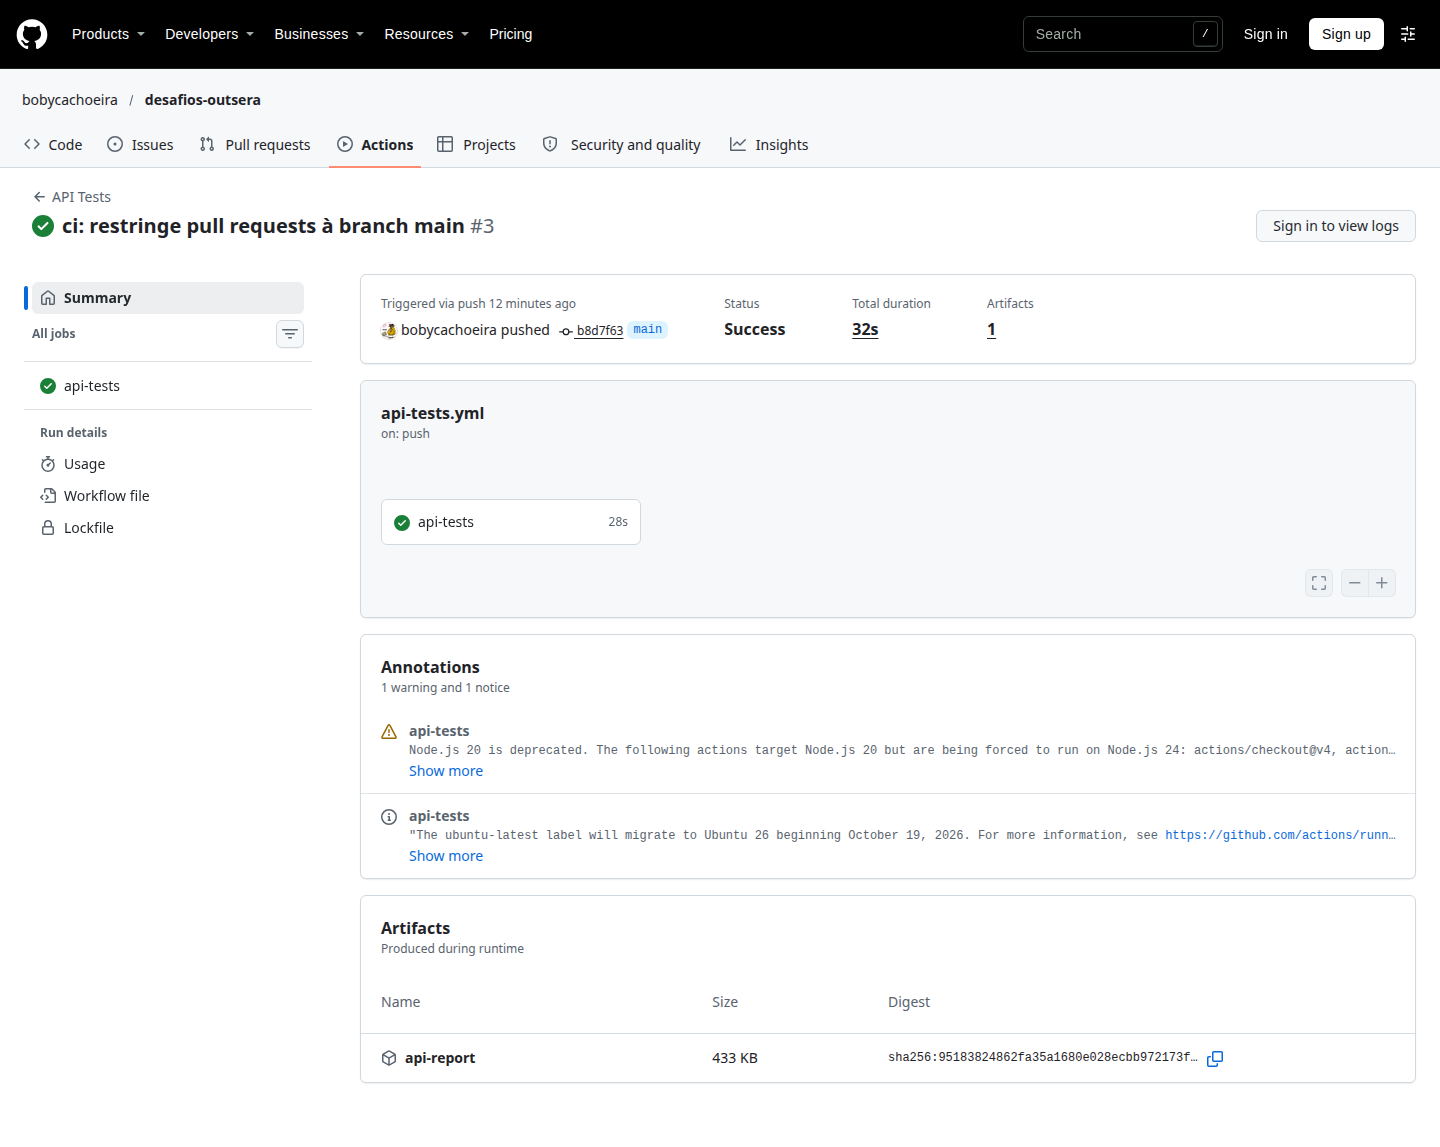
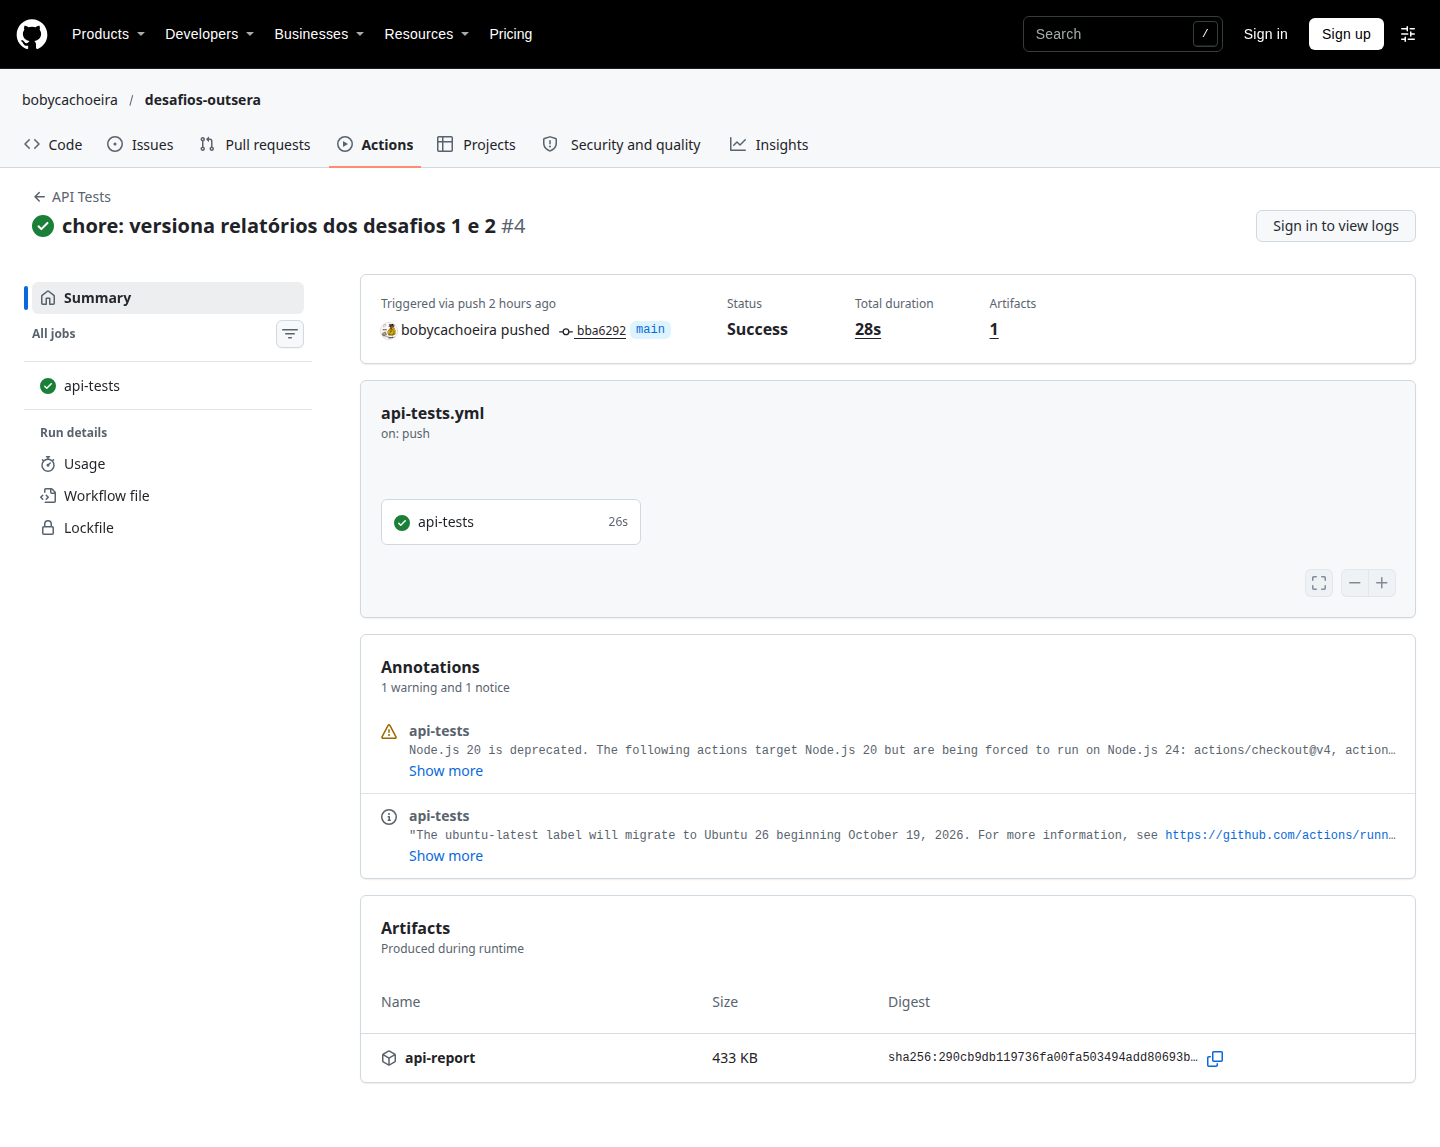
docs: atualiza READMEs e comandos dos desafios

diff --git a/README.md b/README.md
@@ -1,23 +1,23 @@
 # Desafios Outsera — Automação de Testes
 
-Estrutura inicial dos projetos do desafio de automação de testes da Outsera.
+Projetos do desafio de automação de testes da Outsera, com testes de API, E2E, pipeline de CI/CD
+e testes de carga.
 
 ## Projetos
 
 | Pasta | Desafio | Stack |
 | --- | --- | --- |
-| `desafio-1-api` | Testes automatizados de API (GET, POST, PUT, DELETE) | Jest + Supertest |
-| `desafio-2-e2e` | Testes End-to-End (login, navegação e checkout) | Playwright + Cucumber |
-| `desafio-3-ci-cd` | Pipeline de CI/CD | GitHub Actions |
-| `desafio-4-k6` | Testes de carga (500 usuários por 5 min) | k6 |
-
+| [`desafio-1-api`](desafio-1-api/README.md) | Testes automatizados de API (GET, POST, PUT, DELETE) | Jest + Supertest |
+| [`desafio-2-e2e`](desafio-2-e2e/README.md) | Testes End-to-End (login, navegação e checkout) | Playwright + Cucumber |
+| [`desafio-3-ci-cd`](desafio-3-ci-cd/README.md) | Pipeline de CI/CD | GitHub Actions |
+| [`desafio-4-k6`](desafio-4-k6/README.md) | Testes de carga (500 usuários por 5 min) | k6 |
 
 ## CI/CD
 
 Os workflows do GitHub Actions ficam na raiz para executar cada projeto conforme os arquivos
 alterados:
 
-```
+```text
 .github/workflows/
 ├── api-tests.yml
 ├── e2e-tests.yml
@@ -26,11 +26,15 @@ alterados:
 ```
 
 O `all-tests.yml` permite executar os três workflows manualmente de uma vez.
-O k6 roda `ci` (15 VUs por 30s) em push na `main` e PR para a `main` e permite escolher `smoke`, `load` ou `challenge` na
-execução manual. Os relatórios são publicados como artifacts de cada workflow. O pipeline do k6
-não envia métricas para o Grafana: a stack `docker compose` é local e não existe no runner do
-GitHub.
+
+API, E2E e k6 rodam em push na `main` e pull request para a `main`, respeitando o filtro `paths`.
+O k6 usa o perfil `ci` (15 VUs por 30s) no automático e permite escolher `smoke`, `ci`, `load` ou
+`challenge` na execução manual. Os relatórios são publicados como artifacts de cada workflow.
+
+O pipeline do k6 não envia métricas para o Grafana: a stack `docker compose` é local e não existe
+no runner do GitHub.
 
 ## Como usar
 
-Cada projeto possui seu próprio `README.md` com instruções de instalação e execução.
+Cada projeto possui seu próprio `README.md` com instruções de instalação e execução. A descrição
+detalhada dos workflows está em [`desafio-3-ci-cd/README.md`](desafio-3-ci-cd/README.md).

diff --git a/desafio-4-k6/README.md b/desafio-4-k6/README.md
@@ -39,7 +39,8 @@ As jornadas ficam em `lib/journey.js` e podem ser compostas de três formas:
 | `fullJourney()` | Leituras + escrita, contabiliza um fluxo de negócio e pausa entre iterações |
 
 O perfil `smoke` executa `getJourney()` e `createJourney()` separadamente — exemplo de uso
-individual de cada jornada. Os perfis `load`, `stress` e `spike` executam a `fullJourney()`.
+individual de cada jornada. Os perfis `ci`, `load`, `challenge`, `stress` e `spike` executam a
+`fullJourney()`.
 
 ## Adicionando uma nova jornada
 
@@ -138,7 +139,8 @@ Valida tudo **sem disparar requisições** contra o alvo:
   exportadas, executor e duração/estágios de cada cenário, thresholds mínimos;
 - sintaxe do `scripts/run.sh`.
 
-O check roda no CI antes do smoke e requer `python3` (apenas para ler o JSON do `k6 inspect`).
+O check roda no CI antes da execução do perfil `ci` e requer `python3` (apenas para ler o JSON
+do `k6 inspect`).
 
 ## Observabilidade com Grafana
 
@@ -308,8 +310,9 @@ recorder nos passos da jornada. Passo a passo em `agents/criar-jornada.md`.
 ## CI
 
 O workflow `.github/workflows/k6-load.yml` roda `./scripts/check.sh` (validações sem carga) e o
-perfil `ci` (15 VUs por 30s) a cada push/PR. Na execução manual é possível escolher `smoke`,
-`load` ou `challenge`. Os relatórios são publicados como artifacts do workflow.
+perfil `ci` (15 VUs por 30s) em push na `main` e PR para a `main`, quando `desafio-4-k6/**` ou o
+próprio workflow mudam. Na execução manual é possível escolher `smoke`, `ci`, `load` ou
+`challenge`. Os relatórios são publicados como artifacts do workflow.
 
 O perfil `ci` existe para validar o pipeline sem gerar carga relevante contra a API pública. O
 teste completo do desafio (`challenge`) continua sendo executado manualmente.

diff --git a/desafio-4-k6/COMMANDS.md b/desafio-4-k6/COMMANDS.md
@@ -206,16 +206,26 @@ cat AGENTS.md                  # contexto para agentes de IA (arquitetura e inva
 ## 10. CI (GitHub Actions)
 
 ```bash
-gh run list        # histórico das execuções (check + ci a cada push/PR)
-gh run watch       # acompanha a execução mais recente
-gh run view        # detalhes da última execução
+gh run list --workflow "k6 Load Tests"   # execuções do workflow do k6
+gh run watch                             # acompanha a execução mais recente
+gh run view <run-id>                     # detalhes de uma execução
+
+# Disparo manual
+gh workflow run "k6 Load Tests" --ref main -f profile=ci
+gh workflow run "k6 Load Tests" --ref main -f profile=challenge
+
+# Disparar API + E2E + k6 de uma vez
+gh workflow run "All Tests" --ref main
 ```
+
+Os workflows de API, E2E e k6 rodam em push na `main` e PR para a `main`, apenas quando a pasta
+do projeto ou o próprio workflow mudam. O `k6-load.yml` usa o perfil `ci` no automático.
 
 Baixar os artefatos direto pelo CLI (sem navegador):
 
 ```bash
-gh run download -n k6-resultados -D /tmp/k6-resultados   # última execução
-gh run download <run-id> -n k6-resultados                # execução específica
+gh run download <run-id> -n k6-report-ci -D /tmp/k6-report-ci
+gh run download <run-id> -n k6-report-challenge -D /tmp/k6-report-challenge
 ```
 
 > O Chrome às vezes bloqueia o `.zip` de artefatos do GitHub como "arquivo perigoso"

diff --git a/desafio-2-e2e/README.md b/desafio-2-e2e/README.md
@@ -26,6 +26,8 @@ confirmação do pedido.
 - Compra sem número do cartão, com os demais campos preenchidos.
 - Tentativa de iniciar checkout com o carrinho vazio.
 
+Resultado atual: **12 cenários / 65 steps**.
+
 ## Estrutura
 
 ```
@@ -47,7 +49,11 @@ Cada página tem uma classe em `pages/` com todos os locators centralizados no `
 export class AutomationCheckoutPage {
   constructor(page) {
     this.page = page;
+    this.nameOnCard = page.locator('[data-qa="name-on-card"]');
     this.cardNumber = page.locator('[data-qa="card-number"]');
+    this.cvc = page.locator('[data-qa="cvc"]');
+    this.expiryMonth = page.locator('[data-qa="expiry-month"]');
+    this.expiryYear = page.locator('[data-qa="expiry-year"]');
     this.payButton = page.locator('[data-qa="pay-button"]');
     this.confirmation = page.getByText(
       'Congratulations! Your order has been confirmed!'

diff --git a/desafio-3-ci-cd/README.md b/desafio-3-ci-cd/README.md
@@ -86,8 +86,8 @@ Execução validada:
 
 | Workflow | Resultado |
 |---|---|
-| [API Tests](https://github.com/bobycachoeira/desafios-outsera/actions/runs/40906107004) | success |
-| [E2E Tests](https://github.com/bobycachoeira/desafios-outsera/actions/runs/40906107322) | success |
+| [API Tests](https://github.com/bobycachoeira/desafios-outsera/actions/runs/40914026296) | success |
+| [E2E Tests](https://github.com/bobycachoeira/desafios-outsera/actions/runs/40916459547) | success |
 | [k6 Load Tests](https://github.com/bobycachoeira/desafios-outsera/actions/runs/40906106982) | success |
 | [All Tests](https://github.com/bobycachoeira/desafios-outsera/actions/runs/40905731286) | success |
 
